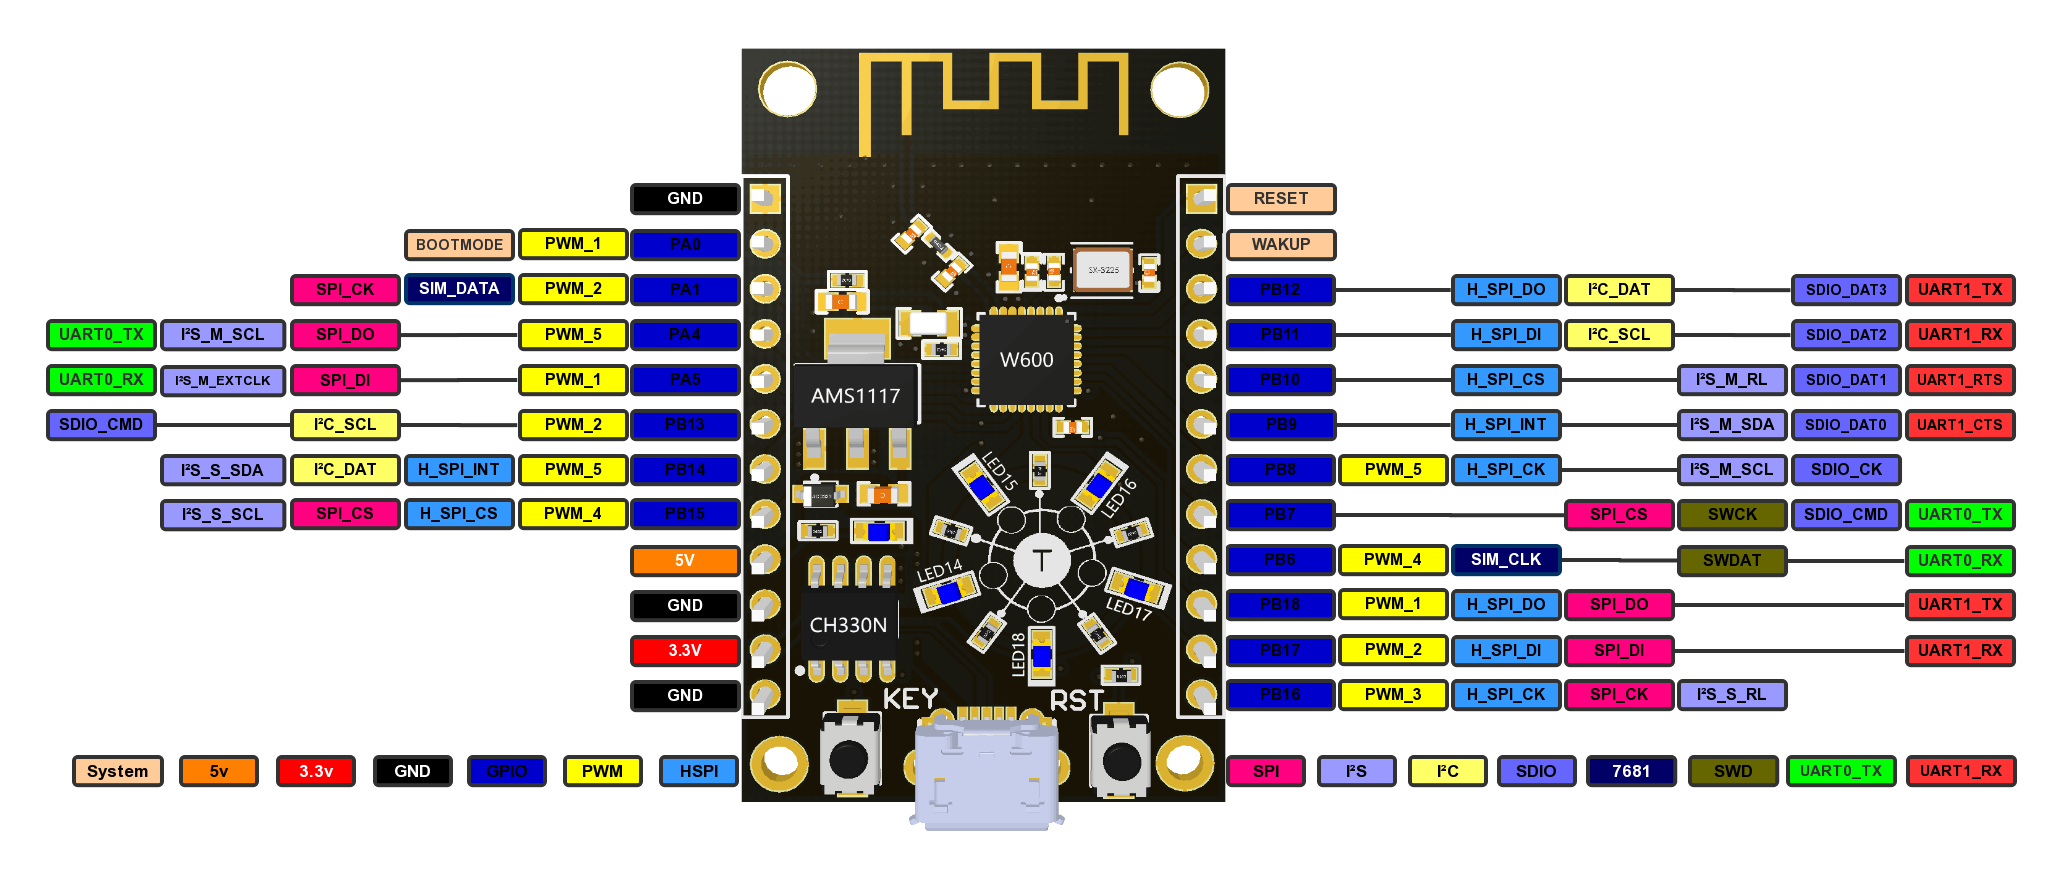
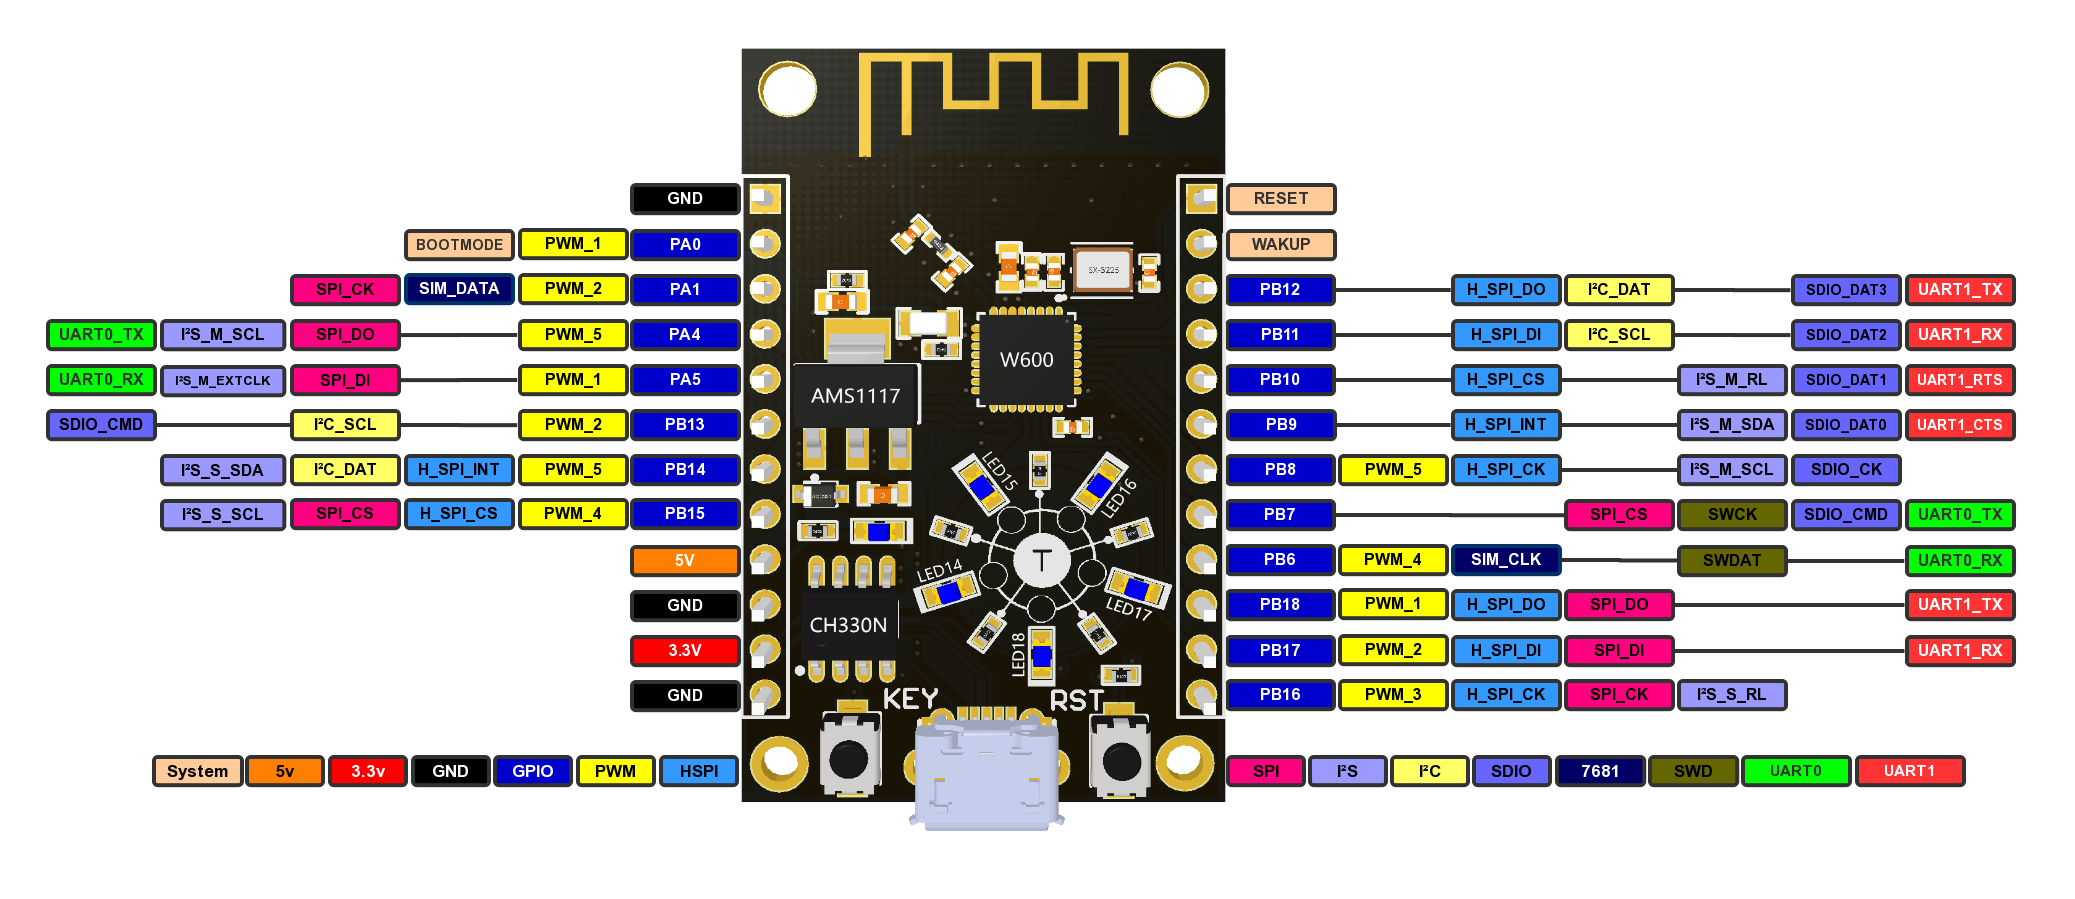
update product and soc start

diff --git a/zh/app/ide.md b/zh/app/ide.md
@@ -1,9 +1,150 @@
 # W600 开发环境搭建指南
 
-## 介绍
+本文档旨在指导用户创建 W600 的软件环境。本文将通过一个简单的例子来说明如何使用 W600 进行应用开发，包括环境配置、程序编译、固件下载等步骤。
 
-## 准备
+## **1 概述**
 
-## 步骤
+W600是联盛德新一代支持多接口、多协议的无线局域网802.11n（1T1R）低功耗 WLAN SoC 芯片。芯片内置 Cortex-M3 CPU处理器和Flash，集成射频收发前端RF Transceiver，CMOS PA功率放大器，基带处理器/媒体访问控制，集成电源管理电路，支持丰富的外围接口， 支持多种加解密协议。W600提供给客户的二次开发空间更大、芯片外围电路器件更少、开发更简便，性价比更优势。
 
-## 常见问题
+W600芯片只有5mm x 5mm 大小，但集成度非常高。芯片内部集成了 RF Switch、Balun、低噪声放大器、滤波器、功率放大器、电源管理模块等，此外还内置了1MByte Flash，使得芯片外围电路器件更少，且模块体积更小、成本更优。W600不仅提供了更加丰富的接口和更大的内存空间，还集成了各种加解密硬件加速器，可提供更快的加解密算法执行速度。芯片采用业界通用的 Cortex-M3 处理器，代码可移植性更强、开发环境友善。
+
+![image](../.assets/app/ide/block.png)
+
+## **2 准备工作**
+
+**·** **电脑**: 开发环境支持Keil 和GCC
+
+**·** **SDK**: [W600 最新SDK](https://github.com/w600/sdk)
+
+**·** **keil工具链**: MDK （Keil 开发）
+
+**·** **gcc开发环境**: [eclipse + cygwin+ gcc](https://eyun.baidu.com/s/3ghjX5xL)
+
+**·** **TB-01 开发板**（[购买链接](http://shop.thingsturn.com/)）
+
+**·** **Micro USB 线**（需支持数据传输）
+
+## **3 开发板介绍**
+
+TB-01 是一款基于联盛德 W600 的超小体积核心开发板，该开发板引出了芯片的所有IO，并且内置LDO和UART传输芯片，只需一根 Micro USB 数据线与电脑连接即可使用，支持一键下载，外设拥有5个环形LED和2颗按键，调试操作极其方便。
+
+![img](../.assets/app/ide/tb_01.png)
+
+## **4 KEil 环境搭建**
+
+### **4.1 安装MDK 环境搭建**
+
+由于 SDK 需要 Cortex-M3 的 Device Pack 支持，如果在线下载速度较慢 或 安装遇到问题，建议安装 [MDK 5](https://www.keil.com/download/product/) 的同时也安装对应的 [Legacy 版本](http://www.keil.com/mdk5/legacy/)
+
+![img](../.assets/app/ide/mdk_legacy.png)
+
+### **4.2 打开工程**
+
+打开下载的SDK工程，找到 **\SDK\Tools\Keil\Project\WM\_W600.uvproj** 文件并打开
+
+![img](../.assets/app/ide/mdk_open_prj.png)
+
+注意：若提示工程打开失败，请检查 MDK 是否按照上一章节进行正确配置
+
+### **4.3 修改 Demo 示例**
+
+找到main.c，此处的 void UserMain(void) 是用户程序的函数入口
+
+修改 SDK 打印信息
+
+![img](../.assets/app/ide/modify_user_main.png)
+
+### **4.4 编译**
+
+点击菜单栏可进行编译
+
+![img](../.assets/app/ide/mdk_build_prj.png)
+控制台窗口输出如下：
+
+![img](../.assets/app/ide/build_output.png)
+
+## **5.GCC环境搭建**
+
+### **5.1 安装**
+
+双击下载的 W600_IDE_Setup.exe ,如图，自行选择要解压的目录；
+
+![img](../.assets/app/ide/decompression.png)
+
+解压后的目录如下
+
+![img](../.assets/app/ide/list.png)
+
+### **5.2 配置**
+
+1.  点击 **ConfigTool.exe** 弹出配置界面；
+
+![img](../.assets/app/ide/En_path.png)
+
+2.  点击 Default 按键，自动搜寻Eclipse Path 和 Cygwin Path路径；
+
+3.  点击 Register 注册 cygwin；
+
+4.  点击保存，使配置生效。可以在任何目录下，右键打开cygwin命令框。
+
+![img](../.assets/app/ide/cygwin.png)
+
+### **5.3 导入新工程**
+
+双击 **IDE.exe** 打开IDE应用程序, IDE内置了一份W600的SDK，不是最新版本，建议更新
+
+1.  点击 **file-> import**
+
+![img](../.assets/app/ide/import.png)
+
+2.  点击 **C/C++**，选择 **Existing Code as Makefile Project**
+
+![img](../.assets/app/ide/import_1.png)
+
+3.  去除 **C++** 支持，选择 **Cygwin GCC** ; 点击 **Browser** , 选中我们之前下载好的SDK工程
+
+![img](../.assets/app/ide/import_2.png)
+
+4.  点击Finish完成工程的导入
+
+### **5.4 编译**
+
+右键需要编译的工程,点击 **Clean project**, 清除完后再右键工程，点击 **Build Project** 即可，出现 Build fininsh！则编译正常无误，可以烧录固件。
+
+![img](../.assets/app/ide/gcc_build.png) 
+
+## **6.固件烧录与调试**
+
+**注意：由于我们在硬件上将 W600 的 RESET 引脚和串口芯片的 RTS 引脚连接在了一起，当您在使用其它串口工具（如 SecureCRT）时，需要去掉开发板上面的 R100 电阻，否则串口可能会无输出。**
+
+固件烧录和调试需依赖[星通智联串口调试助手](https://docs.w600.fun/?p=tools/serial.md)
+
+### **6.1 连接设备**
+
+1. 将开发板与电脑通过 Micro USB 线进行连接
+2.  打开星通智联串口调试助手
+3. 打开对应的串口，并点击 **复位设备**(或按下 RST 按键) 进行设备复位
+4. 串口打印信息如下，说明开发板正常工作
+![img](../.assets/app/ide/fw_reboot.png)
+
+**如有异常，请参考以下方法进行检查**
+
+* 检查拔插设备时**设备管理器**是否有变化（变化部分为串口），并检查 [串口驱动](http://wch.cn/downloads/file/65.html) 是否安装成功；
+* 若未能发现新增串口，请尝试更换一根 Micro USB 数据线；
+* 出现其它打印信息内容或者乱码，请联系对应的销售人员或技术支持人员；
+
+### **6.2 固件烧录及运行**
+
+1. 选择对应的固件，支持 FLS 和 img 格式；FLS 是 WM_W600_sec.img + secboot.img 的合并文件，一般用于芯片的首次下载，之后仅烧录 WM_W600_SEC.img即可。
+
+2.  点击“下载”进行固件下载，波特率默认使用 115200 bps，支持 2Mbps！； 烧录遇到问题的用户请参考:[W600固件烧录指南](https://docs.w600.fun/?p=app/download.md)
+
+3.  观察固件运行信息
+
+ ![img](../.assets/app/ide/fw_download.png)
+
+### **结束**
+
+恭喜！你已完成 W600的入门！
+
+现在你可以尝试其他的示例工程或者直接开发自己的应用程序。

diff --git a/zh/product/w600.md b/zh/product/w600.md
@@ -1,5 +1,4 @@
-W600 简介
-======================
+# W600 简介
 
 ![_images/w600_soc.png](../.assets/product/w600/w600_soc.png)
 
@@ -10,8 +9,7 @@ W600\_SoC芯片集成 Cortex-M3 内核，内置 Flash，集成射频收发前端
 W600是一款支持多接口、多协议的无线局域网 IEEE802.11n（1T1R）的 SoC 芯片。适用于智能家
 电、智能家居、无线音视频、智能玩具、医疗监护、工业控制等物联网应用领域。
 
-W600 特性
-=========
+## W600 特性
 
 1.  内置 288KB SRAM，用户可用RAM超过160KB；
 2.  内置 1MB Flash，用户固件大小可达511KB；
@@ -28,8 +26,8 @@ W600 特性
 13. 使用 keil 开发环境;
 14. 支持 gcc 开发。
 
-选型表
-======
+## 选型表
+
 
 | 型号 |       TW-01       |       TW-02       |      TW-03      |
 | :--: | :---------------: | :---------------: | :-------------: |
@@ -37,6 +35,10 @@ W600 特性
 | 天线 |      PCB天线      |      PCB天线      |     PCB天线     |
 | 尺寸 | 18\*17\*2.8±0.2mm | 15\*17.3\*3±0.2mm | 24\*16\*3±0.2mm |
 | 板层 |         2         |         2         |        2        |
+
+## 引脚说明
+
+![W600_Pin.png](../.assets/product/w600/w600_pinlist.png)
 
 ## 资源下载
 

diff --git a/zh/README.md b/zh/README.md
@@ -1,23 +1,11 @@
-
-## 本文档暂未完善，请先访问旧版本：https://docs.thingsturn.com
-
-*******************************************************
-
 # 欢迎访问 W600 文档中心
 
-[本文档](http://docs.thingsturn.com) 主要由[星通智联](https://www.thingsturn.com) 进行维护，您可以通过[GitHub](https://github.com/w600/docs) 进行协助编辑。
+[本文档](http://docs.w600.fun) 主要由[星通智联](https://www.thingsturn.com) 进行维护，您可以通过[GitHub](https://github.com/w600/docs) 进行协助编辑。
 
 
 # 联系我们
 
-深圳市星通智联科技有限公司
+官方网站：https://www.w600.fun
 
 问答社区：https://ask.w600.fun
 
-邮箱：support@thingsturn.com
-
-官网：https://www.thingsturn.com
-
-淘宝：http://shop.thingsturn.com
-
-地址: 深圳市宝安区固戍二路268号腾耀大厦B栋303

diff --git a/zh/product/tw-01.md b/zh/product/tw-01.md
@@ -26,6 +26,10 @@ SOC模组。该系列模块支持标准的 802.11 b/g/n 协议，内置完整的
 -   支持串口本地升级和远程固件升级（FOTA）
 -   开发环境支持keil,Eclipse
 
+## 引脚说明
+
+![TW-01_Pin.png](../.assets/product/tw-01/tw_01_pinlist.png)
+
 ## 资料下载
 
 [TW-01 规格书](https://download.w600.fun/document/TW-01_%E4%BA%A7%E5%93%81%E8%A7%84%E6%A0%BC%E4%B9%A6.pdf)

diff --git a/zh/product/tw-02.md b/zh/product/tw-02.md
@@ -26,6 +26,10 @@ SOC模组。该系列模块支持标准的 802.11 b/g/n 协议，内置完整的
 -   支持串口本地升级和远程固件升级（FOTA）
 -   开发环境支持keil,Eclipse
 
+## 引脚说明
+
+![TW-02_Pin.png](../.assets/product/tw-02/tw_02_pinlist.png)
+
 ## 资料下载
 
 [TW-02 规格书](https://download.w600.fun/document/TW-02_%E4%BA%A7%E5%93%81%E8%A7%84%E6%A0%BC%E4%B9%A6.pdf)
